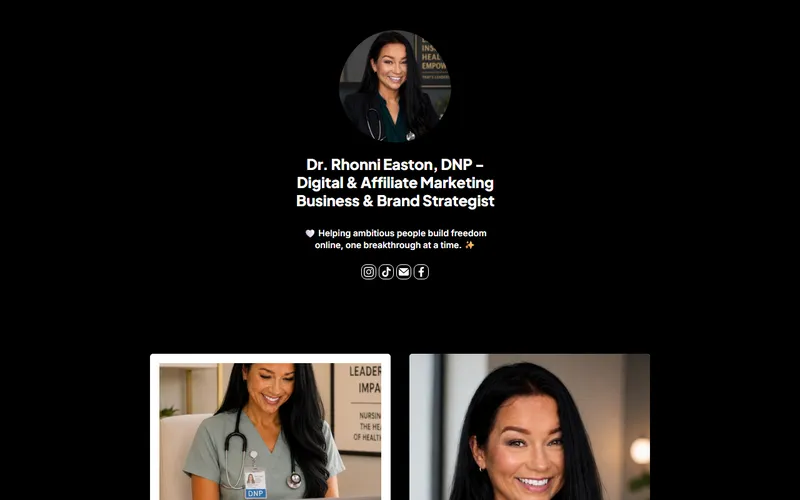
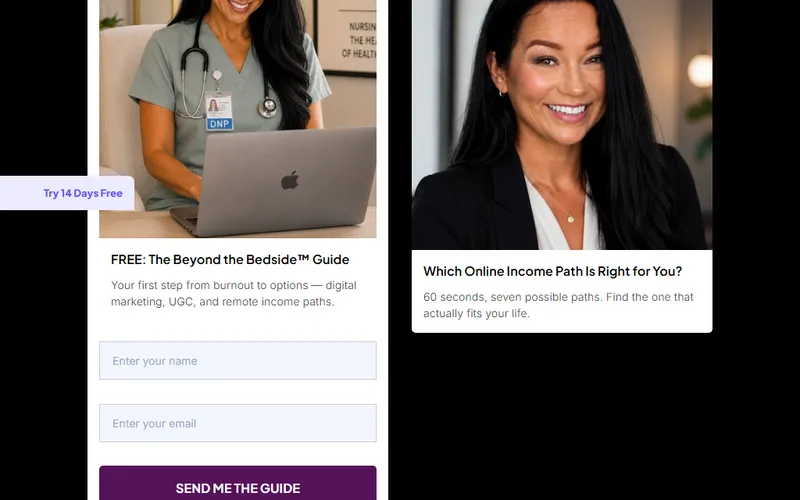
Site v2 preview round 3c: case grid fix, Rhonni before/after cropped to the changed block (unlisted, noindex)

diff --git a/preview-site-v2-74c2aa/home/index.html b/preview-site-v2-74c2aa/home/index.html
@@ -366,6 +366,11 @@ body{margin:0;background:#050816}
 #tdd .closing h2{color:#fff}
 #tdd .closing .close-sub{color:#fff;font-size:1.5rem;line-height:1.35}
 #tdd .closing .close-grid>div:last-child{background:var(--bg);border-radius:18px;padding:28px;box-shadow:0 24px 60px -24px rgba(5,8,22,.6)}
+/* round 3b: grader found .cases (3 cols) overriding .cases-2; captions sat over the screenshots */
+#tdd .cases.cases-2{grid-template-columns:1fr 1fr}
+#tdd .case-shots figure{display:flex;flex-direction:column}
+#tdd .case-shots figcaption{position:static;align-self:flex-start;margin:0;padding:6px 10px;border-radius:0;background:transparent;color:var(--muted);font-size:.8rem}
+@media (max-width:960px){#tdd .cases.cases-2{grid-template-columns:1fr}}
 </style>
 </head>
 <body>
@@ -480,8 +485,8 @@ body{margin:0;background:#050816}
         <p class="kicker">Client project &middot; Stan store, quiz and welcome emails</p>
         <h3>A Stan store that started keeping its visitors.</h3>
         <div class="case-shots">
-          <figure><img src="https://raw.githubusercontent.com/charleshayesdigitally-oss/tdd-content-assets/main/site/v2/rhonni-before.webp" width="800" height="500" loading="lazy" alt="Rhonni's Stan store before the build: product graphics and no email capture."><figcaption>Before</figcaption></figure>
-          <figure><img src="https://raw.githubusercontent.com/charleshayesdigitally-oss/tdd-content-assets/main/site/v2/rhonni-after.webp" width="800" height="500" loading="lazy" alt="Rhonni's Stan store after the build, opening on her profile with the free guide below."><figcaption>After</figcaption></figure>
+          <figure><img src="https://raw.githubusercontent.com/charleshayesdigitally-oss/tdd-content-assets/main/site/v2/rhonni-before.webp" width="800" height="500" loading="lazy" alt="Rhonni's Stan store before the build: the first thing under her profile was a course graphic, with no email capture."><figcaption>Before: a course graphic up top</figcaption></figure>
+          <figure><img src="https://raw.githubusercontent.com/charleshayesdigitally-oss/tdd-content-assets/main/site/v2/rhonni-after.webp" width="800" height="500" loading="lazy" alt="Rhonni's Stan store after the build: a free guide sign-up form and a quiz are the first things under her profile."><figcaption>After: free guide sign-up up top</figcaption></figure>
         </div>
         <dl class="case-facts">
           <div><dt>Before</dt><dd>There was no email capture anywhere on it.</dd></div>
